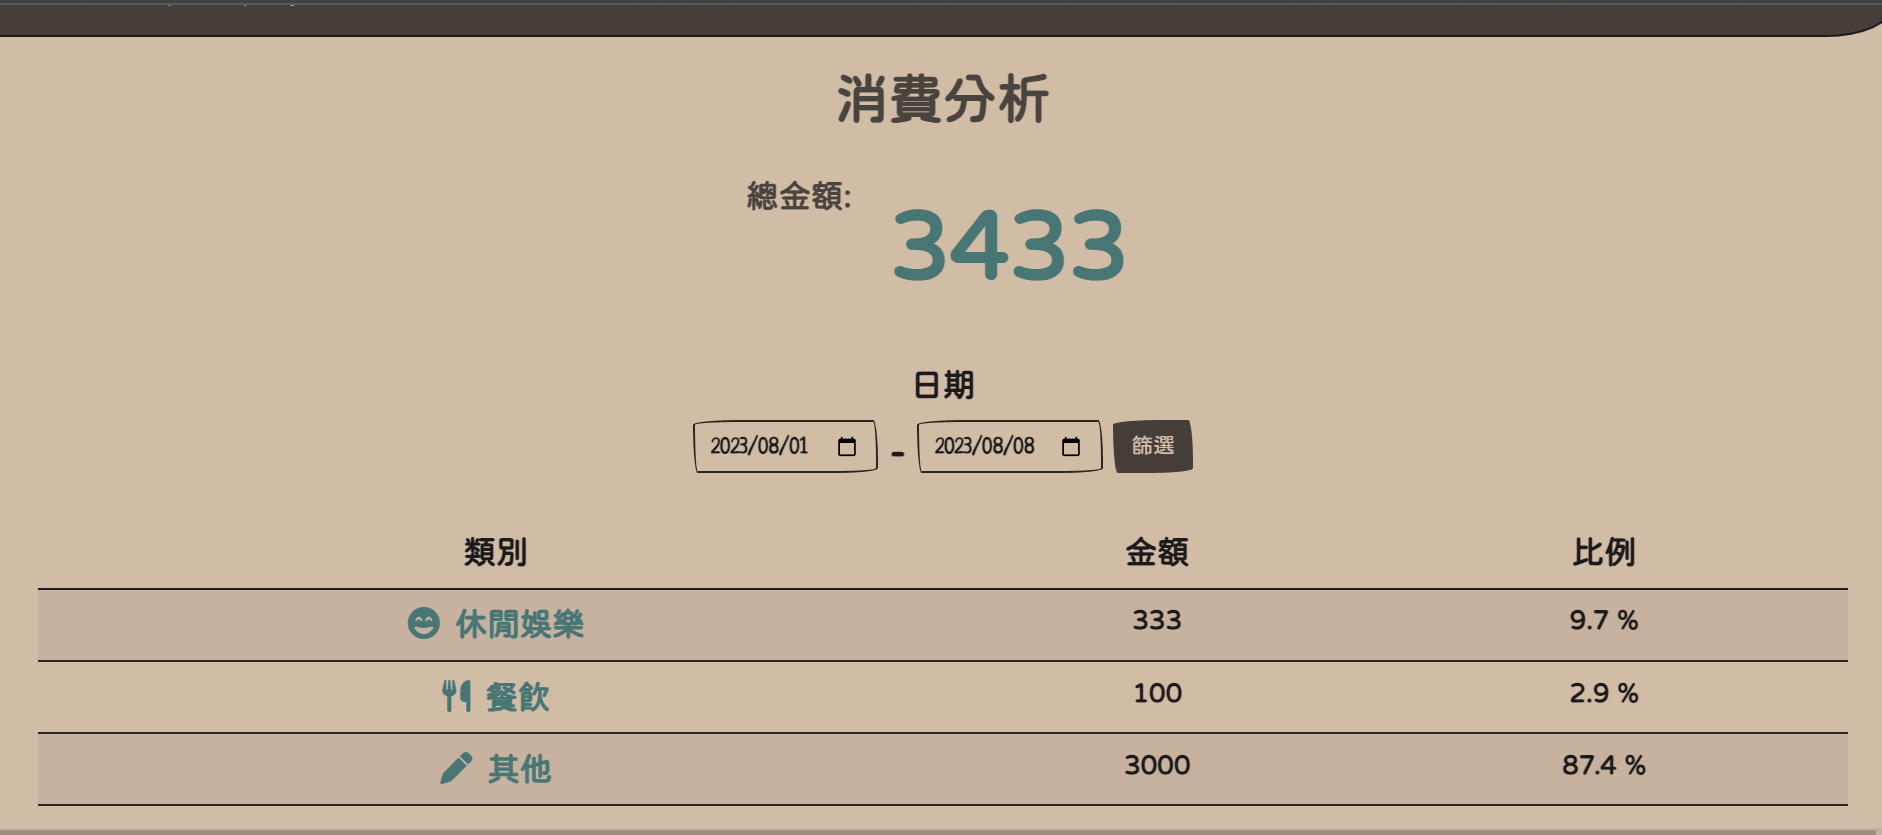
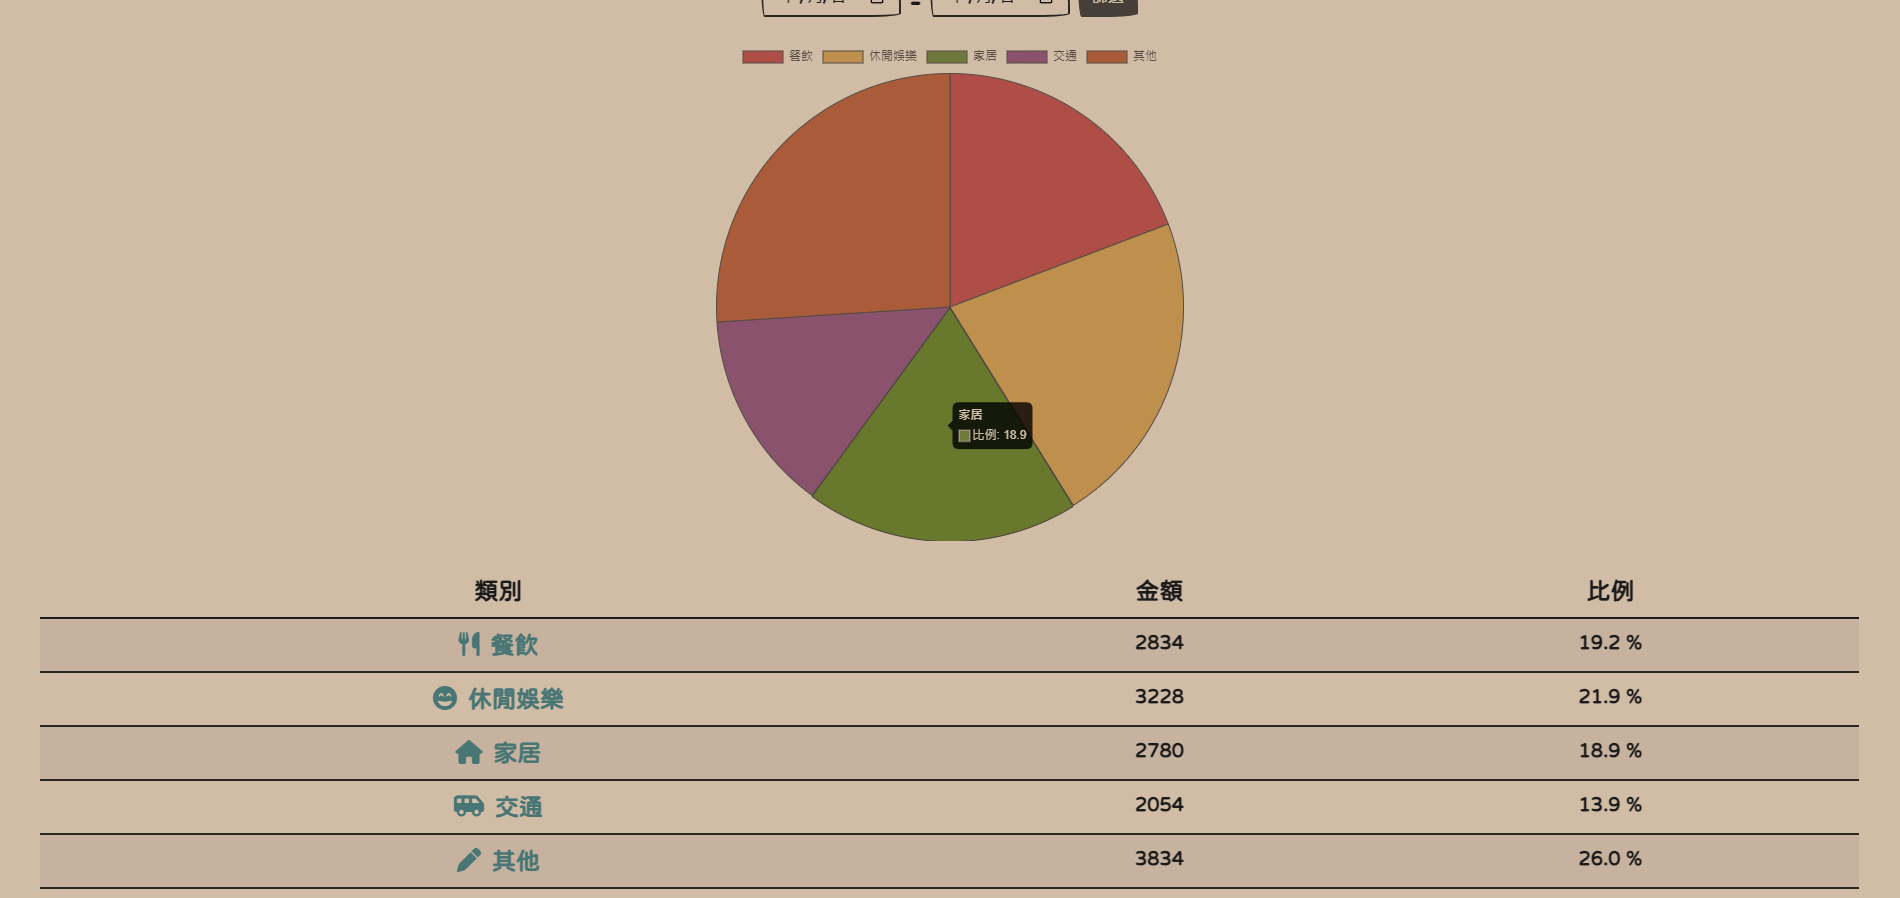
docs: update readme

Changed region(s): [[0.0, 0.6228, 1.0, 1.0], [0.0, 0.0, 1.0, 0.6228]]

diff --git a/README.md b/README.md
@@ -12,14 +12,15 @@
 
 這是一個使用Node.js（Express框架）搭配MongoDB資料庫所建立的簡易記帳本，使用者註冊帳號並登入後（也可透過Google帳號快速登入），可以新增支出並分類，也可以編輯、刪除帳務紀錄；亦可以根據分類、日期、金額大小等條件篩選帳務記錄。
 <br> 
-同時，也可以經由消費分析檢視各分類支出占總支出金額的比例，亦可以自訂分析日期的範圍。
+同時，也可以經由消費分析，檢視各分類支出占總支出金額的比例及圓餅圖，亦可以自訂分析日期的範圍。
 <p>
   <h3 style="text-align:center;">登入頁面</h3>
   <img src="./public/README_images/login page.png" width="100%" alt="login">
   <h3 style="text-align:center;">首頁</h3>
   <img src="./public/README_images/index page.png" width="100%" alt="index">
   <h3 style="text-align:center;">消費分析</h3>
-  <img src="./public/README_images/stats page.png" width="100%" alt="stats">
+  <img src="./public/README_images/chart.png" width="100%" alt="chart">
+  <img src="./public/README_images/stats page.png" width="100%" alt="stats">  
 </p>
 
 ## 功能 Features
